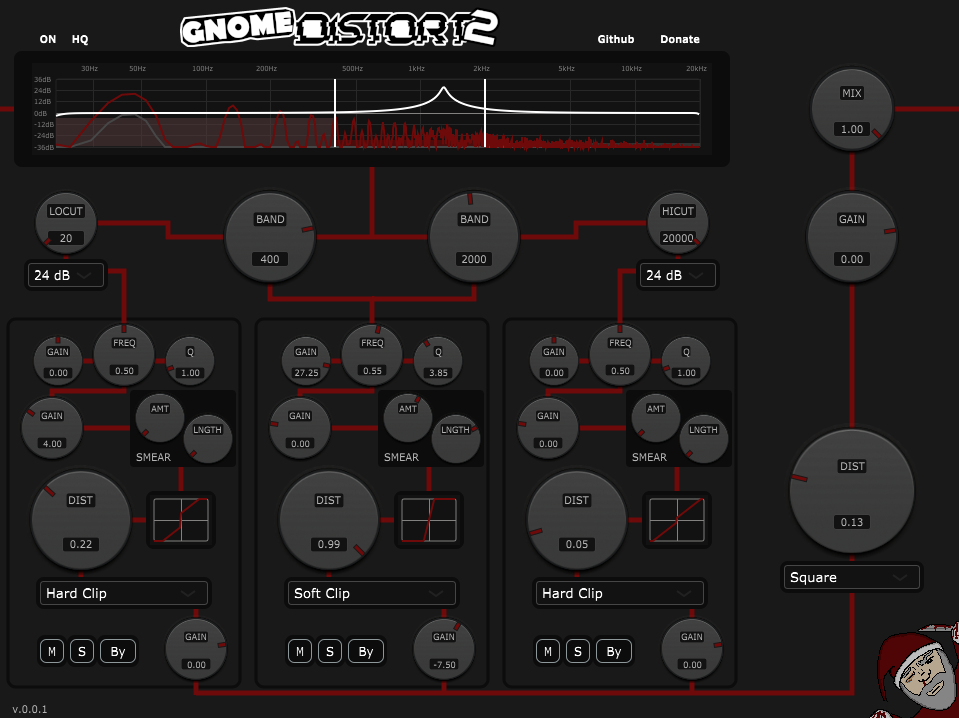
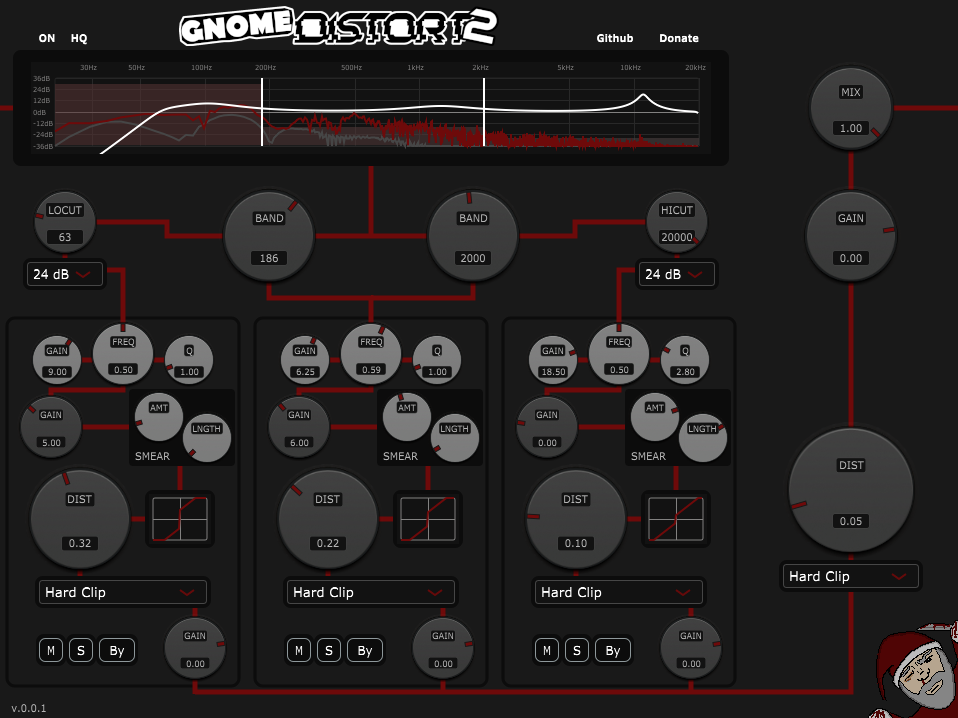
add clean light themes

diff --git a/Source/UI/Theme/Theme-CleanLightGreen.h b/Source/UI/Theme/Theme-CleanLightGreen.h
@@ -1,0 +1,49 @@
+#pragma once
+#include "Theme.h"
+
+namespace GnomeDistort2Theme {
+    static const Theme getTheme_CleanLightGreen() {
+        Theme r;
+
+        r.shouldDrawOverlay = false;
+        r.reduced3DBorders = false;
+
+        r.knobStyle = Theme::KnobTick;
+
+        r.COLOR_BG = juce::Colour(255u, 255u, 255u);
+        r.COLOR_BG_AREAS = juce::Colour(189u, 189u, 189u);
+        r.COLOR_PRIMARY = juce::Colour(210u, 210u, 210u);
+        r.COLOR_SECONDARY = juce::Colour(110u, 110u, 110u);
+        r.COLOR_TEXT_PRIMARY = juce::Colour(0u, 0u, 0u);
+        r.COLOR_TEXT_SECONDARY = juce::Colour(33u, 33u, 33u);
+        r.COLOR_KNOB_INDICATOR_IN = juce::Colour(10u, 110u, 10u);
+        r.COLOR_KNOB_INDICATOR_OUT = juce::Colour(36u, 36u, 36u);
+        r.COLOR_CIRCUIT_PRIMARY = juce::Colour(10u, 110u, 10u);
+        r.COLOR_GRAPH_BG = juce::Colour(210u, 210u, 210u);
+        r.COLOR_GRAPH_PRIMARY = juce::Colour(10u, 110u, 10u);
+        r.COLOR_GRAPH_SECONDARY = juce::Colour(90u, 90u, 90u);
+        r.COLOR_BAND_LEVEL_MAX = juce::Colour(10u, 110u, 10u);
+        r.COLOR_BAND_LEVEL_MIN = juce::Colour(90u, 90u, 90u);
+        r.COLOR_GRAPH_FOREGROUND = juce::Colour(255u, 255u, 255u);
+        r.COLOR_GRAPH_MARKINGS = juce::Colour(0u, 0u, 0u);
+        r.COLOR_GRAPH_MARKINGS_DIM = juce::Colour(130u, 130u, 130u);
+
+        r.KnobOverlay = juce::ImageCache::getFromMemory(BinaryData::knob_overlay_clean_128_png, BinaryData::knob_overlay_clean_128_pngSize);
+        r.Gnome = juce::ImageCache::getFromMemory(BinaryData::gnome_dark_green_png, BinaryData::gnome_dark_green_pngSize);
+
+        r.CornersRect = [r](juce::Graphics& g, const juce::Rectangle<int> bounds, const int edgeLengthX, int edgeLengthY) {
+            const juce::Rectangle<int> area = bounds.expanded(edgeLengthX, edgeLengthY);
+            juce::Path areaPath;
+            areaPath.addRoundedRectangle(area, 8.f);
+            g.setColour(r.COLOR_BG_AREAS);
+            g.fillPath(areaPath);
+        };
+        r.CornersKnob = [](juce::Graphics& g, const juce::Rectangle<int> bounds, const int distance) {
+            const juce::Image knobShadow = juce::ImageCache::getFromMemory(BinaryData::knob_shadow_clean_128_png, BinaryData::knob_shadow_clean_128_pngSize);
+            const juce::Rectangle<int> borderBounds = bounds.expanded(distance, distance);
+            g.drawImageWithin(knobShadow, borderBounds.getX(), borderBounds.getY(), borderBounds.getWidth(), borderBounds.getHeight(), juce::RectanglePlacement::stretchToFit);
+        };
+
+        return r;
+    };
+}

diff --git a/Source/UI/Theme/Theme-CleanLightBlue.h b/Source/UI/Theme/Theme-CleanLightBlue.h
@@ -1,0 +1,49 @@
+#pragma once
+#include "Theme.h"
+
+namespace GnomeDistort2Theme {
+    static const Theme getTheme_CleanLightBlue() {
+        Theme r;
+
+        r.shouldDrawOverlay = false;
+        r.reduced3DBorders = false;
+
+        r.knobStyle = Theme::KnobTick;
+
+        r.COLOR_BG = juce::Colour(255u, 255u, 255u);
+        r.COLOR_BG_AREAS = juce::Colour(189u, 189u, 189u);
+        r.COLOR_PRIMARY = juce::Colour(210u, 210u, 210u);
+        r.COLOR_SECONDARY = juce::Colour(110u, 110u, 110u);
+        r.COLOR_TEXT_PRIMARY = juce::Colour(0u, 0u, 0u);
+        r.COLOR_TEXT_SECONDARY = juce::Colour(33u, 33u, 33u);
+        r.COLOR_KNOB_INDICATOR_IN = juce::Colour(10u, 10u, 110u);
+        r.COLOR_KNOB_INDICATOR_OUT = juce::Colour(36u, 36u, 36u);
+        r.COLOR_CIRCUIT_PRIMARY = juce::Colour(10u, 10u, 110u);
+        r.COLOR_GRAPH_BG = juce::Colour(210u, 210u, 210u);
+        r.COLOR_GRAPH_PRIMARY = juce::Colour(10u, 10u, 110u);
+        r.COLOR_GRAPH_SECONDARY = juce::Colour(90u, 90u, 90u);
+        r.COLOR_BAND_LEVEL_MAX = juce::Colour(10u, 10u, 110u);
+        r.COLOR_BAND_LEVEL_MIN = juce::Colour(90u, 90u, 90u);
+        r.COLOR_GRAPH_FOREGROUND = juce::Colour(255u, 255u, 255u);
+        r.COLOR_GRAPH_MARKINGS = juce::Colour(0u, 0u, 0u);
+        r.COLOR_GRAPH_MARKINGS_DIM = juce::Colour(130u, 130u, 130u);
+
+        r.KnobOverlay = juce::ImageCache::getFromMemory(BinaryData::knob_overlay_clean_128_png, BinaryData::knob_overlay_clean_128_pngSize);
+        r.Gnome = juce::ImageCache::getFromMemory(BinaryData::gnome_dark_blue_png, BinaryData::gnome_dark_blue_pngSize);
+
+        r.CornersRect = [r](juce::Graphics& g, const juce::Rectangle<int> bounds, const int edgeLengthX, int edgeLengthY) {
+            const juce::Rectangle<int> area = bounds.expanded(edgeLengthX, edgeLengthY);
+            juce::Path areaPath;
+            areaPath.addRoundedRectangle(area, 8.f);
+            g.setColour(r.COLOR_BG_AREAS);
+            g.fillPath(areaPath);
+        };
+        r.CornersKnob = [](juce::Graphics& g, const juce::Rectangle<int> bounds, const int distance) {
+            const juce::Image knobShadow = juce::ImageCache::getFromMemory(BinaryData::knob_shadow_clean_128_png, BinaryData::knob_shadow_clean_128_pngSize);
+            const juce::Rectangle<int> borderBounds = bounds.expanded(distance, distance);
+            g.drawImageWithin(knobShadow, borderBounds.getX(), borderBounds.getY(), borderBounds.getWidth(), borderBounds.getHeight(), juce::RectanglePlacement::stretchToFit);
+        };
+
+        return r;
+    };
+}

diff --git a/Source/UI/Theme/Theme-CleanLightRed.h b/Source/UI/Theme/Theme-CleanLightRed.h
@@ -1,0 +1,49 @@
+#pragma once
+#include "Theme.h"
+
+namespace GnomeDistort2Theme {
+    static const Theme getTheme_CleanLightRed() {
+        Theme r;
+
+        r.shouldDrawOverlay = false;
+        r.reduced3DBorders = false;
+
+        r.knobStyle = Theme::KnobTick;
+
+        r.COLOR_BG = juce::Colour(255u, 255u, 255u);
+        r.COLOR_BG_AREAS = juce::Colour(189u, 189u, 189u);
+        r.COLOR_PRIMARY = juce::Colour(210u, 210u, 210u);
+        r.COLOR_SECONDARY = juce::Colour(110u, 110u, 110u);
+        r.COLOR_TEXT_PRIMARY = juce::Colour(0u, 0u, 0u);
+        r.COLOR_TEXT_SECONDARY = juce::Colour(33u, 33u, 33u);
+        r.COLOR_KNOB_INDICATOR_IN = juce::Colour(110u, 10u, 10u);
+        r.COLOR_KNOB_INDICATOR_OUT = juce::Colour(36u, 36u, 36u);
+        r.COLOR_CIRCUIT_PRIMARY = juce::Colour(110u, 10u, 10u);
+        r.COLOR_GRAPH_BG = juce::Colour(210u, 210u, 210u);
+        r.COLOR_GRAPH_PRIMARY = juce::Colour(110u, 10u, 10u);
+        r.COLOR_GRAPH_SECONDARY = juce::Colour(90u, 90u, 90u);
+        r.COLOR_BAND_LEVEL_MAX = juce::Colour(110u, 10u, 10u);
+        r.COLOR_BAND_LEVEL_MIN = juce::Colour(90u, 90u, 90u);
+        r.COLOR_GRAPH_FOREGROUND = juce::Colour(255u, 255u, 255u);
+        r.COLOR_GRAPH_MARKINGS = juce::Colour(0u, 0u, 0u);
+        r.COLOR_GRAPH_MARKINGS_DIM = juce::Colour(130u, 130u, 130u);
+
+        r.KnobOverlay = juce::ImageCache::getFromMemory(BinaryData::knob_overlay_clean_128_png, BinaryData::knob_overlay_clean_128_pngSize);
+        r.Gnome = juce::ImageCache::getFromMemory(BinaryData::gnome_dark_png, BinaryData::gnome_dark_pngSize);
+
+        r.CornersRect = [r](juce::Graphics& g, const juce::Rectangle<int> bounds, const int edgeLengthX, int edgeLengthY) {
+            const juce::Rectangle<int> area = bounds.expanded(edgeLengthX, edgeLengthY);
+            juce::Path areaPath;
+            areaPath.addRoundedRectangle(area, 8.f);
+            g.setColour(r.COLOR_BG_AREAS);
+            g.fillPath(areaPath);
+        };
+        r.CornersKnob = [](juce::Graphics& g, const juce::Rectangle<int> bounds, const int distance) {
+            const juce::Image knobShadow = juce::ImageCache::getFromMemory(BinaryData::knob_shadow_clean_128_png, BinaryData::knob_shadow_clean_128_pngSize);
+            const juce::Rectangle<int> borderBounds = bounds.expanded(distance, distance);
+            g.drawImageWithin(knobShadow, borderBounds.getX(), borderBounds.getY(), borderBounds.getWidth(), borderBounds.getHeight(), juce::RectanglePlacement::stretchToFit);
+        };
+
+        return r;
+    };
+}

diff --git a/Source/PluginEditor.cpp b/Source/PluginEditor.cpp
@@ -6,6 +6,9 @@
 #include "UI/Theme/Theme-CleanDarkRed.h"
 #include "UI/Theme/Theme-CleanDarkGreen.h"
 #include "UI/Theme/Theme-CleanDarkBlue.h"
+#include "UI/Theme/Theme-CleanLightRed.h"
+#include "UI/Theme/Theme-CleanLightGreen.h"
+#include "UI/Theme/Theme-CleanLightBlue.h"
 #include "UI/Windows/AboutWindow.h"
 
 //==============================================================================
@@ -158,12 +161,15 @@ void GnomeDistort2AudioProcessorEditor::setThemeFromSettings(bool callRedraw) {
         case GnomeDistort2Theme::CleanDarkRed: theme = GnomeDistort2Theme::getTheme_CleanDarkRed(); break;
         case GnomeDistort2Theme::CleanDarkGreen: theme = GnomeDistort2Theme::getTheme_CleanDarkGreen(); break;
         case GnomeDistort2Theme::CleanDarkBlue: theme = GnomeDistort2Theme::getTheme_CleanDarkBlue(); break;
+        case GnomeDistort2Theme::CleanLightRed: theme = GnomeDistort2Theme::getTheme_CleanLightRed(); break;
+        case GnomeDistort2Theme::CleanLightGreen: theme = GnomeDistort2Theme::getTheme_CleanLightGreen(); break;
+        case GnomeDistort2Theme::CleanLightBlue: theme = GnomeDistort2Theme::getTheme_CleanLightBlue(); break;
     }
-    PreBandControl.applyTheme(&theme);
+    PreBandControl.applyTheme(&theme, callRedraw);
     BandControlsLo.applyTheme(&theme, callRedraw);
     BandControlsMid.applyTheme(&theme, callRedraw);
     BandControlsHi.applyTheme(&theme, callRedraw);
-    PostBandControl.applyTheme(&theme);
+    PostBandControl.applyTheme(&theme, callRedraw);
     if (callRedraw) {
         paintBackground();
         DisplayArea.applyTheme();

diff --git a/Source/UI/Controls/ComboBoxLnF.h b/Source/UI/Controls/ComboBoxLnF.h
@@ -11,7 +11,7 @@ namespace GnomeDistort2Controls {
             setColour(juce::ComboBox::ColourIds::backgroundColourId, theme->COLOR_GRAPH_BG);
             setColour(juce::ComboBox::ColourIds::textColourId, theme->COLOR_TEXT_PRIMARY);
             setColour(juce::ComboBox::ColourIds::outlineColourId, theme->COLOR_GRAPH_SECONDARY);
-            setColour(juce::ComboBox::ColourIds::arrowColourId, theme->COLOR_PRIMARY);
+            setColour(juce::ComboBox::ColourIds::arrowColourId, theme->COLOR_CIRCUIT_PRIMARY);
             setColour(juce::PopupMenu::ColourIds::backgroundColourId, theme->COLOR_BG_AREAS);
             setColour(juce::PopupMenu::ColourIds::textColourId, theme->COLOR_TEXT_PRIMARY);
             setColour(juce::PopupMenu::ColourIds::highlightedBackgroundColourId, theme->COLOR_GRAPH_BG);

diff --git a/Source/UI/Theme/Theme.h b/Source/UI/Theme/Theme.h
@@ -7,14 +7,20 @@ namespace GnomeDistort2Theme {
         Oscilloscope,
         CleanDarkRed,
         CleanDarkGreen,
-        CleanDarkBlue
+        CleanDarkBlue,
+        CleanLightRed,
+        CleanLightGreen,
+        CleanLightBlue,
     };
     const juce::StringArray ThemeOptions = {
         "GNOME Industrial",
         "Oscilloscope",
         "Clean Dark Red",
         "Clean Dark Green",
-        "Clean Dark Blue"
+        "Clean Dark Blue",
+        "Clean Light Red",
+        "Clean Light Green",
+        "Clean Light Blue",
     };
 
     struct Theme {

diff --git a/Source/UI/PreBandControls.h b/Source/UI/PreBandControls.h
@@ -18,8 +18,12 @@ struct PreBandControls : juce::Component {
 
     void paint(juce::Graphics& g) override {};
     void resized() override;
-    void applyTheme(const GnomeDistort2Theme::Theme* theme) {
+    void applyTheme(const GnomeDistort2Theme::Theme* theme, bool redraw) {
         lnfCombo.setColors(theme);
+        if (redraw) {
+            LoCutSlopeSelect.lookAndFeelChanged();
+            HiCutSlopeSelect.lookAndFeelChanged();
+        }
     };
 
 private:

diff --git a/Source/UI/PostBandControls.h b/Source/UI/PostBandControls.h
@@ -47,8 +47,11 @@ struct PostBandControls : juce::Component {
         funcSelect.removeFromBottom(padding / 2);
         WaveshapeFuncSelect.setBounds(funcSelect);
     }
-    void applyTheme(const GnomeDistort2Theme::Theme* theme) {
+    void applyTheme(const GnomeDistort2Theme::Theme* theme, bool redraw) {
         lnfCombo.setColors(theme);
+        if (redraw) {
+            WaveshapeFuncSelect.lookAndFeelChanged();
+        }
     };
 
 private:

diff --git a/Source/UI/BandControls.h b/Source/UI/BandControls.h
@@ -35,6 +35,7 @@ struct BandControls : juce::Component {
         if (redraw) {
             Display.resized();
             Display.repaint();
+            WaveshapeFuncSelect.lookAndFeelChanged();
         }
     };
 
